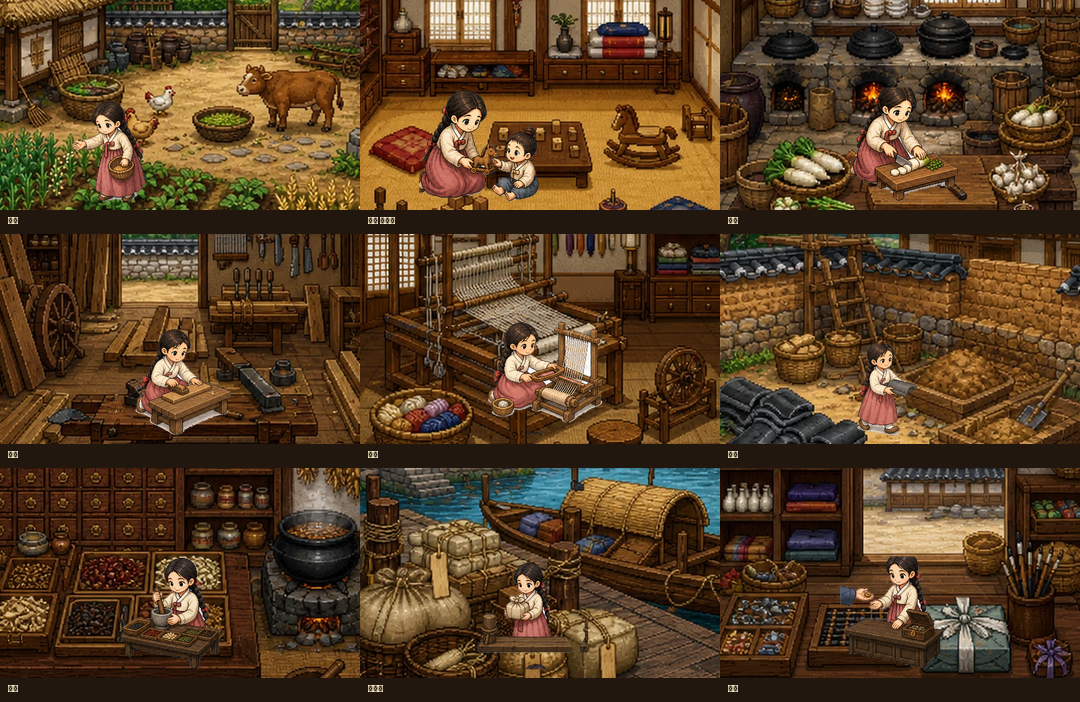
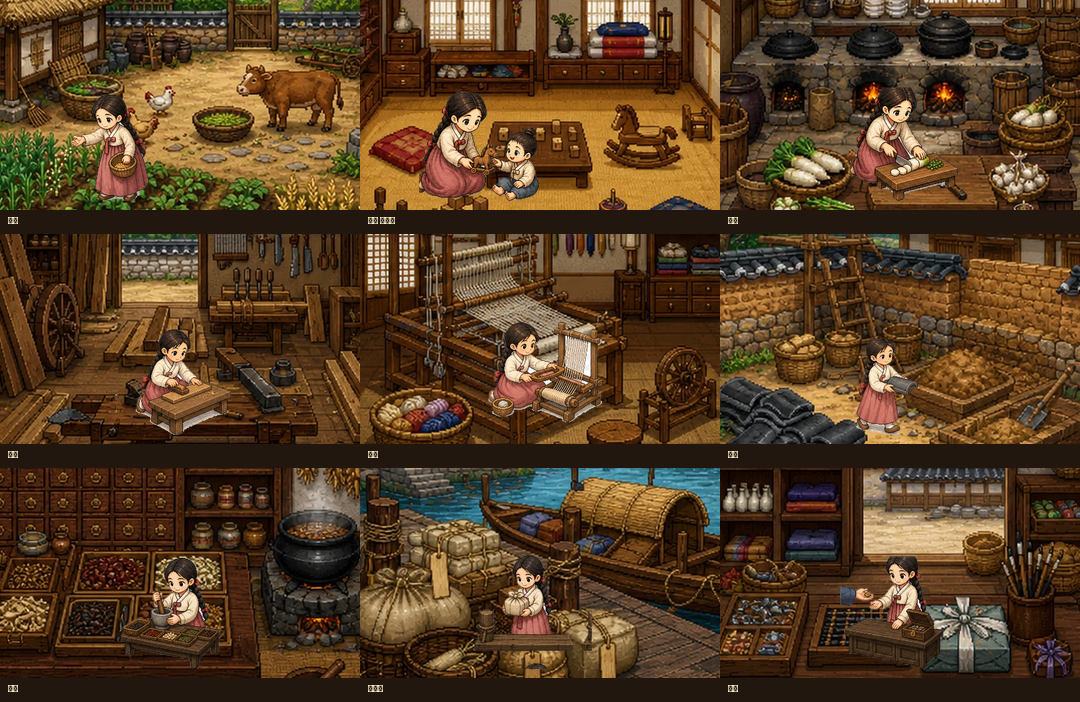
fix: align dedicated job scenes on mobile

Changed region(s): [[0.4278, 0.7778, 0.55, 0.9573], [0.0306, 0.1197, 0.1528, 0.2991], [0.7944, 0.4786, 0.8556, 0.6282]]

diff --git a/src/schedule.css b/src/schedule.css
@@ -504,6 +504,28 @@
 @keyframes job-skilled{0%,100%{transform:translateX(-50%) translateY(0)}50%{transform:translateX(-50%) translateY(-3px)}}
 @keyframes job-master{0%,100%{transform:translateX(-50%) translateY(0) scale(1)}50%{transform:translateX(-50%) translateY(-4px) scale(1.025)}}
 
+/* v0.62.66: 공통 작업 규칙 뒤에서 직업별 배경 기준선을 최종 고정한다. */
+.activity-stage.action-farmwork .stage-character.pixel-sprite.motion-job-farm{left:27%;bottom:2%;width:134px;height:134px}
+.activity-stage.action-childcare .stage-character.pixel-sprite.motion-job-childcare{left:33%;bottom:3%;width:150px;height:150px}
+.activity-stage.action-kitchenhelp .stage-character.pixel-sprite.motion-job-kitchen{left:51%;bottom:2%;width:150px;height:150px}
+.activity-stage.action-woodwork .stage-character.pixel-sprite.motion-job-woodwork{left:48%;bottom:1%;width:146px;height:146px}
+.activity-stage.action-loomwork .stage-character.pixel-sprite.motion-job-loom{left:50%;bottom:0;width:158px;height:158px}
+.activity-stage.action-masonry .stage-character.pixel-sprite.motion-job-masonry{left:46%;bottom:2%;width:140px;height:140px}
+.activity-stage.action-clinichelp .stage-character.pixel-sprite.motion-job-clinic{left:50%;bottom:1%;width:150px;height:150px}
+.activity-stage.action-ferryhelp .stage-character.pixel-sprite.motion-job-ferry{left:48%;bottom:1%;width:150px;height:150px}
+.activity-stage.action-merchanthelp .stage-character.pixel-sprite.motion-job-merchant{left:50%;bottom:1%;width:150px;height:150px}
+@media(max-width:430px){
+  .activity-stage.action-farmwork .stage-character.pixel-sprite.motion-job-farm{width:124px;height:124px}
+  .activity-stage.action-childcare .stage-character.pixel-sprite.motion-job-childcare{width:132px;height:132px}
+  .activity-stage.action-kitchenhelp .stage-character.pixel-sprite.motion-job-kitchen{width:132px;height:132px}
+  .activity-stage.action-woodwork .stage-character.pixel-sprite.motion-job-woodwork{width:128px;height:128px}
+  .activity-stage.action-loomwork .stage-character.pixel-sprite.motion-job-loom{width:138px;height:138px}
+  .activity-stage.action-masonry .stage-character.pixel-sprite.motion-job-masonry{width:124px;height:124px}
+  .activity-stage.action-clinichelp .stage-character.pixel-sprite.motion-job-clinic{width:132px;height:132px}
+  .activity-stage.action-ferryhelp .stage-character.pixel-sprite.motion-job-ferry{width:132px;height:132px}
+  .activity-stage.action-merchanthelp .stage-character.pixel-sprite.motion-job-merchant{width:132px;height:132px}
+}
+
 /* v0.62.60: core job actors share the background perspective and play readable 3-step loops. */
 .activity-stage.action-farmwork .stage-character.pixel-sprite.motion-job-farm{
   inset:auto;left:28%;bottom:1%;width:132px;height:132px;padding:0;animation:none!important;filter:drop-shadow(0 3px 1px #2d1b1266)

diff --git a/src/index.html b/src/index.html
@@ -4,8 +4,8 @@
   <meta charset="utf-8">
   <meta name="viewport" content="width=device-width,initial-scale=1,viewport-fit=cover">
   <title>선화공주 만들기 — 자산 로딩 테스트</title>
-  <link rel="stylesheet" href="style.css?v=0.62.65-debug">
-  <link rel="stylesheet" href="schedule.css?v=0.62.65-debug">
+  <link rel="stylesheet" href="style.css?v=0.62.66-debug">
+  <link rel="stylesheet" href="schedule.css?v=0.62.66-debug">
   <link rel="stylesheet" href="schedule-pm2.css?v=0.62.09-debug">
   <link rel="stylesheet" href="birthday.css?v=0.62.55-debug">
   <link rel="stylesheet" href="prologue.css?v=0.62.28-debug">
@@ -41,7 +41,7 @@
       </div>
       <span class="loading-caption">이야기를 열 준비가 되었어요</span>
       <button class="studio-start-sound" id="studioStartSound" type="button">인연의 문을 열기</button>
-      <small class="loading-version" aria-label="현재 게임 버전">v0.62.65-debug</small>
+      <small class="loading-version" aria-label="현재 게임 버전">v0.62.66-debug</small>
     </section>
     <section class="prologue" id="prologue" aria-label="이야기 시작 영상" hidden>
       <audio id="prologueMusic" src="../assets/audio/music/prologue-lantern-and-dawn.mp3" preload="auto" loop></audio>
@@ -201,6 +201,6 @@
       </div>
     </section>
   </main>
-  <script src="story-data.js?v=0.62.57-debug"></script><script src="app.js?v=0.62.65-debug"></script>
+  <script src="story-data.js?v=0.62.57-debug"></script><script src="app.js?v=0.62.66-debug"></script>
 </body>
 </html>

diff --git a/tools/render_job_scene_contact_sheet.py b/tools/render_job_scene_contact_sheet.py
@@ -6,14 +6,14 @@ from PIL import Image, ImageDraw
 ROOT = Path(__file__).resolve().parents[1]
 OUT = ROOT / "docs/qa/job-scene-mobile-contact-sheet.png"
 JOBS = (
-    ("farmwork", "농가", 0.27, 116),
+    ("farmwork", "농가", 0.27, 124),
     ("childcare", "아이 돌보기", 0.33, 132),
     ("kitchenhelp", "주방", 0.51, 132),
     ("woodwork", "목공", 0.48, 128),
     ("loomwork", "베틀", 0.50, 138),
-    ("masonry", "기와", 0.46, 118),
+    ("masonry", "기와", 0.46, 124),
     ("clinichelp", "약방", 0.50, 132),
-    ("ferryhelp", "나루터", 0.48, 124),
+    ("ferryhelp", "나루터", 0.48, 132),
     ("merchanthelp", "판매", 0.50, 132),
 )
 
@@ -34,7 +34,7 @@ def main() -> None:
     for index, (job, label, anchor, actor_size) in enumerate(JOBS):
         row, col = divmod(index, 3)
         background = cover(Image.open(ROOT / f"assets/backgrounds/pixel-jobs/{job}.webp").convert("RGB"), (cell_w, cell_h))
-        actor = Image.open(ROOT / f"assets/characters/seonhwa/job-actions/{job}-2.png").convert("RGBA")
+        actor = Image.open(ROOT / f"assets/characters/seonhwa/job-actions/{job}-v2-2.png").convert("RGBA")
         actor.thumbnail((actor_size, actor_size), Image.Resampling.LANCZOS)
         x = round(cell_w * anchor - actor.width / 2)
         y = cell_h - actor.height - 3

diff --git a/README.md b/README.md
@@ -1026,3 +1026,8 @@ python tools/verify_assets.py
 
 - 농가·아이 돌보기·주방·목공·베틀·기와·약방·나루터·상점 판매의 전용 동작 27프레임 전체에서 흰색 매트와 지저분한 투명 경계를 제거했습니다.
 - 전용 일자리 전체를 새 `v2` 파일명으로 연결해 PC와 모바일의 오래된 이미지 캐시를 우회합니다.
+
+# v0.62.66-debug
+
+- 모바일 전용 아르바이트 9종의 캐릭터 좌표를 배경 가구와 작업대 기준으로 다시 고정했습니다.
+- 뒤쪽 공통 CSS가 직업별 좌표를 덮어쓰던 문제를 막고, 작게 보이던 농가·기와·나루터 캐릭터 크기를 통일했습니다.
